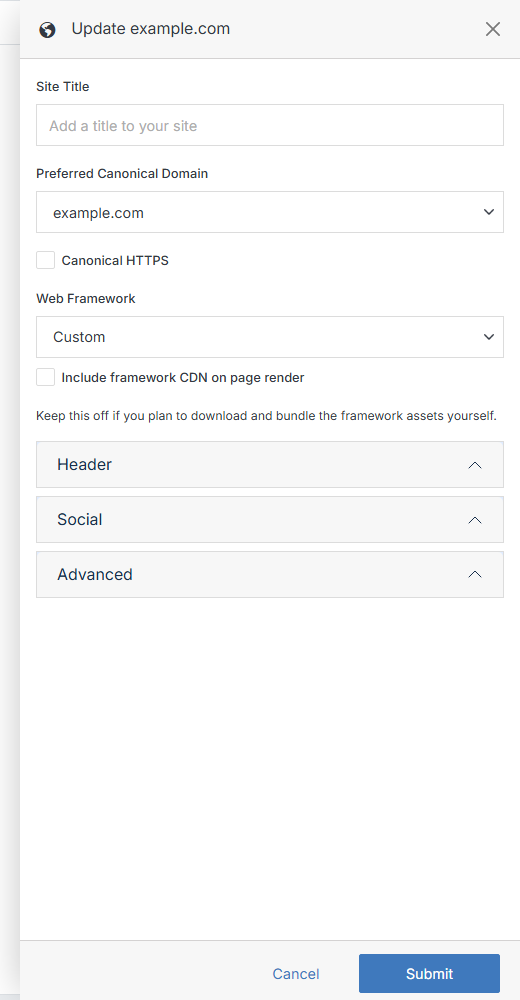
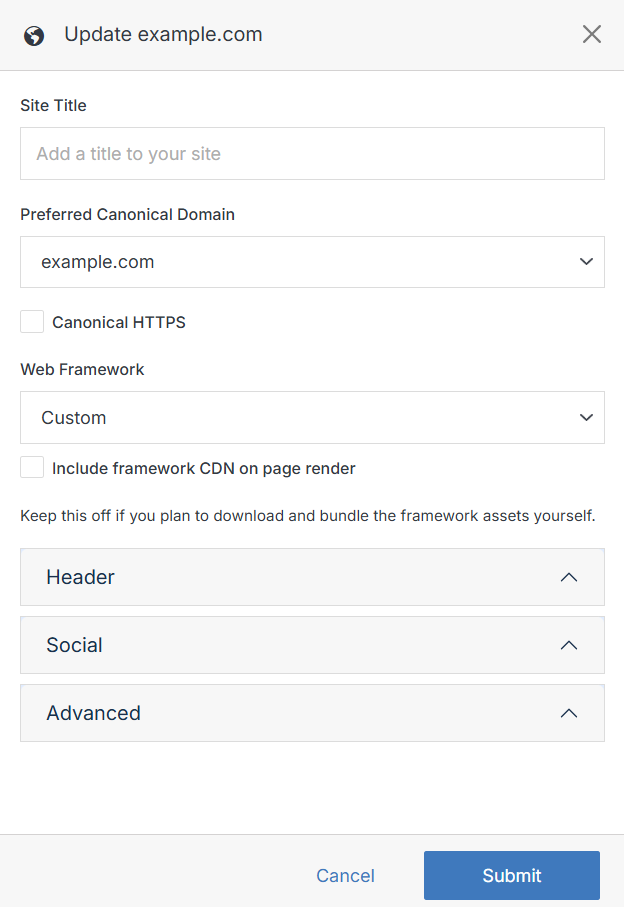
Update content and add image on update website

diff --git a/src/Websites/Website Overview/Update Website/index.md b/src/Websites/Website Overview/Update Website/index.md
@@ -1,12 +1,12 @@
 # Update Website
 
-Click the pencil icon over the live preview, or **Update** on a website's [Website Overview](/websites/website-overview/) dashboard, to edit its site title, framework, social links, and other settings.
+Click the **Update** button on a website's [Website Overview](/websites/website-overview/) dashboard, to edit its site title, framework, social links, and other settings.
 
-<p><img src="../../../images/websites/update-website.png" alt="Update Website form" style="max-width: 520px;"></p>
+<p><img src="../../../images/websites/update-website.png" alt="Update Website form" style="max-width: 490px;" class="border"></p>
 
 **Name** | **Description** 
 :--- | ---
-Site Title | Add or update the site title.
+Site Title | Add or update the site title. The site title is used as the browser title and in the page's meta information.
 Preferred Canonical Domain | Select which of the website's addresses (production, staging, etc.) search engines should treat as the canonical version.
 Canonical HTTPS | Check this to set the canonical tag to `https` instead of `http`.
 Web Framework | Choose the CSS/JS framework new pages are built with (Bootstrap 5, Bootstrap 4, Tailwind CSS, Bulma, Foundation 6), or **Custom** to manage your own.
@@ -16,15 +16,19 @@ Include framework CDN on page render | Loads the framework from a CDN automatica
 
 Assign a class to the `<body>` element and add Global HTML/Header code that applies across every page of the site.
 
+<p><img src="../../../images/websites/update-website-header.png" alt="Update Website Header form" style="max-width: 420px;" class="border"></p>
+
 **Name** | **Description** 
 :--- | ---
-Body Class | One or more HTML classes applied to the `<body>` element, separated by spaces.
-Global HTML Tag | HTML or code applied universally across all pages of the website.
+Body Class | Add one or more HTML classes applied to the global `<body>` element, separated by spaces.
+Global HTML Tag | HTML or code applied universally across all pages of the website. This code is used for the <br>`<!DOCTYPE>` declaration and `<html>` tag.
 Global Header Insert | Code injected into the `<head>` of every page &mdash; useful for metadata, analytics, and third-party integrations.
 
 ## Social
 
 Manage the social links and handle used for card metadata across the site.
+
+<p><img src="../../../images/websites/update-website-social.png" alt="Update Website Social form" style="max-width: 420px;" class="border"></p>
 
 **Name** | **Description** 
 :--- | ---
@@ -37,6 +41,10 @@ Pinterest URL | Full URL to your Pinterest profile.
 TikTok URL | Full URL to your TikTok profile.
 
 ## Advanced
+
+Update the site's timezone, add a custom shortcode file, and export your website.
+
+<p><img src="../../../images/websites/update-website-advanced.png" alt="Update Website Advanced form" style="max-width: 420px;" class="border"></p>
 
 **Name** | **Description** 
 :--- | ---
